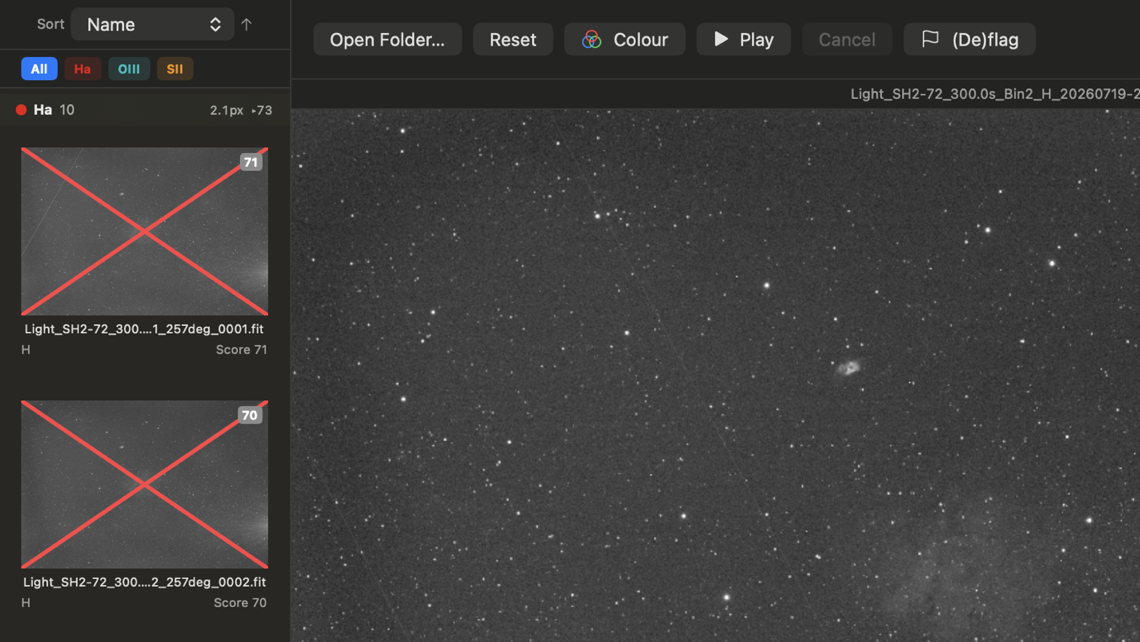
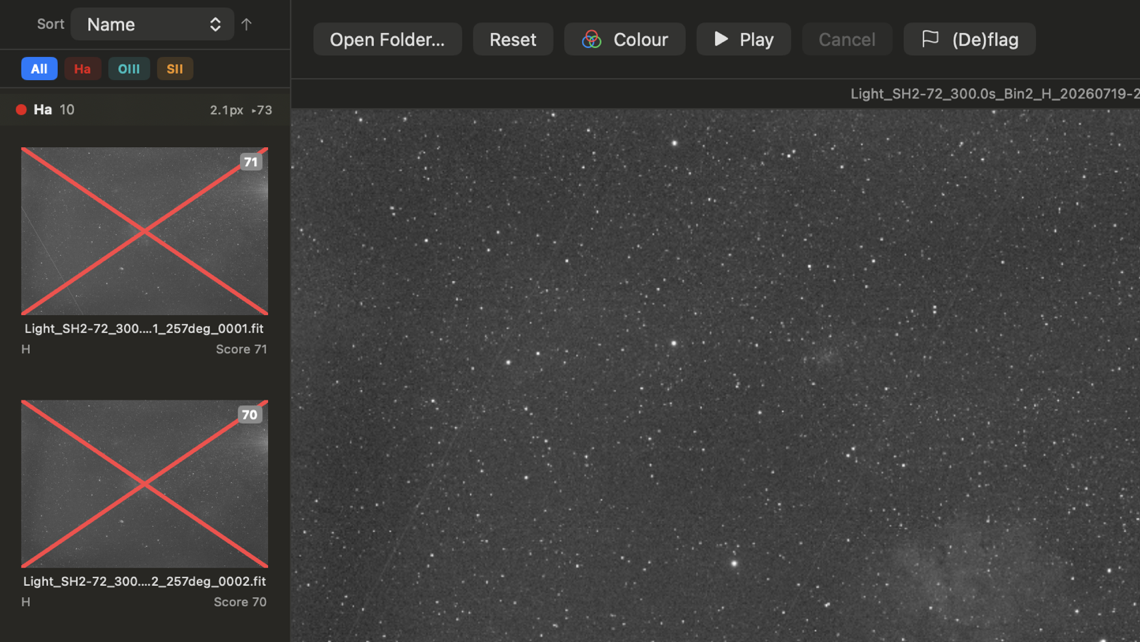
Home page: screenshots taken again for 1.24 (216)
Main window and Inspector (M42 in colour), sidebar and session chart
(SH2-72, Ha/OIII/SII) taken with the App Store build 1.24 (216), so the
frames are the way up 1.24 shows them (issue #14). Same crops and sizes.

diff --git a/CHANGELOG.md b/CHANGELOG.md
@@ -4,10 +4,11 @@ All notable changes to FITS Blaster are recorded here.
 
 ---
 
-## 2026-11-20 — FAQ: orientation and Auto-Flag settings (site-1.24)
+## 2026-11-20 — FAQ and screenshots: orientation and Auto-Flag settings (site-1.24)
 
 ### Website
 - **FAQ, Viewing Images:** a new question, "Why are my frames the other way up than in earlier versions?" It explains that 1.24 follows the `ROWORDER` header (only `BOTTOM-UP` frames are flipped; `TOP-DOWN` and frames without the header are shown as stored), that this applies to the viewer, thumbnails and Quick Look, that Finder may show cached thumbnails the old way up for a while, and that Flip 180° still turns a frame around.
+- **Home page screenshots taken again with the App Store build 1.24 (216),** so the frames are shown the way up 1.24 draws them (issue #14): the main window and the Inspector from M42 in colour, the sidebar and the session chart from SH2-72 in Ha, OIII and SII. Same crops and sizes as before.
 - **FAQ, What is Auto-Flag?:** the sheet remembers its mode, checks and thresholds, also after a restart; Reset to Defaults brings back the starting values; the command line keeps its own options.
 
 ---
